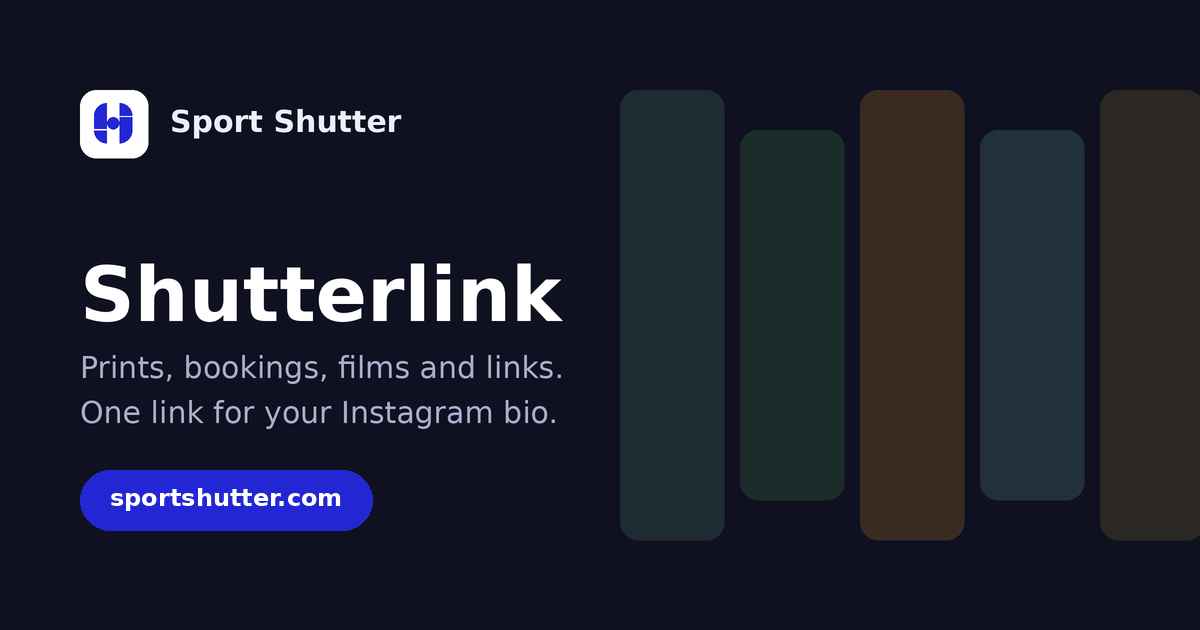
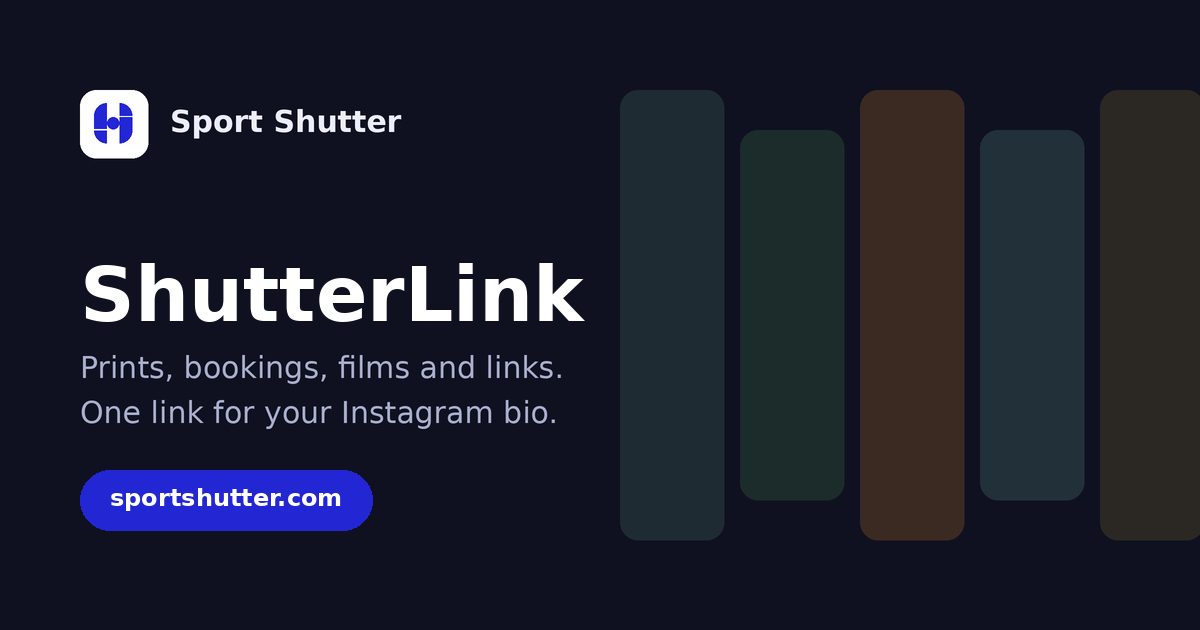
Name the feature ShutterLink in the top bar
Keeps the Sport Shutter mark and home link, and the Powered by Sport
Shutter footer. Settings bar, manifest, share card and README follow.

Claude-Session: https://claude.ai/code/session_01YJnzLmg5F2TP1LupT89ezc

Changed region(s): [[0.3392, 0.3921, 0.4933, 0.5127], [0.2775, 0.4524, 0.3083, 0.4825], [0.1233, 0.4524, 0.1542, 0.4825]]

diff --git a/settings.html b/settings.html
@@ -3,7 +3,7 @@
 <head>
 <meta charset="utf-8">
 <meta name="viewport" content="width=device-width, initial-scale=1, viewport-fit=cover">
-<title>Link page settings · Sport Shutter</title>
+<title>ShutterLink settings · Sport Shutter</title>
 <meta name="robots" content="noindex">
 <meta name="theme-color" content="#ffffff" media="(prefers-color-scheme: light)">
 <meta name="theme-color" content="#151726" media="(prefers-color-scheme: dark)">
@@ -246,8 +246,8 @@ select.in{appearance:none;-webkit-appearance:none;padding-right:32px;background-
 <body>
 <header class="top">
   <div class="bar">
-    <a class="brand" href="https://sportshutter.com/" aria-label="Sport Shutter home"><span class="mk" id="mk"></span><span>Sport Shutter</span></a>
-    <span class="crumb">Link page</span>
+    <a class="brand" href="https://sportshutter.com/" aria-label="ShutterLink by Sport Shutter, go to the Sport Shutter home page"><span class="mk" id="mk"></span><span>ShutterLink</span></a>
+    <span class="crumb">Settings</span>
     <span class="sp"></span>
     <span class="saved" id="saved" role="status"><i></i><span class="lbl" id="savedT">All changes saved</span></span>
     <button class="btn ghost icon" id="undo" aria-label="Undo" title="Undo (Ctrl+Z)" disabled></button>
@@ -708,7 +708,7 @@ async function uploadMany(files, list){
 async function importFile(file){
   if (!file) return;
   try { cfg = SL.fromJSON(await file.text()); changed({ immediate:true }); renderPane(current, true); toast('Settings loaded'); }
-  catch(_){ toast('That file isn’t a Shutterlink settings file.', true); }
+  catch(_){ toast('That file isn’t a ShutterLink settings file.', true); }
 }
 
 /* ---------- Preview ---------- */

diff --git a/index.html b/index.html
@@ -365,7 +365,7 @@ select.in{background-image:linear-gradient(45deg,transparent 50%,var(--text-dim)
 <div class="backdrop" id="backdrop" aria-hidden="true"></div>
 
 <header class="topbar" id="topbar">
-  <a class="logo" id="logo" href="https://sportshutter.com/"><span class="mark" id="mark"></span><span>Sport Shutter</span></a>
+  <a class="logo" id="logo" href="https://sportshutter.com/"><span class="mark" id="mark"></span><span id="product">ShutterLink</span></a>
   <button class="ib" id="shareBtn" aria-label="Share this page"></button>
   <button class="ib" id="cartBtn" aria-label="Cart, empty"><span class="badge-n num" id="cartN">0</span></button>
   <a class="ib gear" id="gear" href="settings.html" aria-label="Page settings"></a>
@@ -416,7 +416,8 @@ const tintCache = new Map();
 
 /* static chrome */
 $('mark').innerHTML = SL.BRAND.logo;
-$('logo').setAttribute('aria-label', SL.BRAND.name + ' home');
+$('product').textContent = SL.BRAND.product;
+$('logo').setAttribute('aria-label', `${SL.BRAND.product} by ${SL.BRAND.name}, go to the ${SL.BRAND.name} home page`);
 $('shareBtn').innerHTML = I.share;
 $('cartBtn').insertAdjacentHTML('afterbegin', I.bag);
 $('gear').innerHTML = I.gear;

diff --git a/assets/core.js b/assets/core.js
@@ -1,4 +1,4 @@
-/* Shutterlink core — shared by the link page and settings.
+/* ShutterLink core — shared by the link page and settings.
    Everything the page shows comes from one config object. In this prototype
    it is saved in the browser; as a Sport Shutter plugin, SL.load / SL.save
    become calls to the account API and nothing else needs to change. */
@@ -10,6 +10,7 @@ const KEY = 'shutterlink:v2';
 /* ---------- Brand (host site) ---------- */
 const BRAND = {
   name: 'Sport Shutter',
+  product: 'ShutterLink',          // this feature's name; the mark stays Sport Shutter's
   home: 'https://sportshutter.com/',
   blue: '#2326D3',
   logo: '<svg viewBox="0 0 86 90" aria-hidden="true"><g fill="currentColor"><path d="M28.5 0V58H0V28.5A28.5 28.5 0 0 1 28.5 0Z"/><path d="M0 62H28.5V90A28.5 28.5 0 0 1 0 62Z"/><path d="M57.5 0A28.5 28.5 0 0 1 86 28.5H57.5Z"/><path d="M57.5 32H86V61.5A28.5 28.5 0 0 1 57.5 90Z"/><circle cx="43" cy="45" r="13.5"/></g></svg>',

diff --git a/404.html b/404.html
@@ -3,7 +3,7 @@
 <head>
 <meta charset="utf-8">
 <meta name="viewport" content="width=device-width, initial-scale=1, viewport-fit=cover">
-<title>Page not found · Shutterlink</title>
+<title>Page not found · ShutterLink</title>
 <meta name="robots" content="noindex">
 <link rel="icon" href="/shutterLink/favicon.svg" type="image/svg+xml">
 <link rel="preconnect" href="https://fonts.googleapis.com">

diff --git a/README.md b/README.md
@@ -1,6 +1,8 @@
-# Shutterlink
+# ShutterLink
 
-A link-in-bio page for photographers, built to replace Linktree with something that lives on Sport Shutter and sells prints directly.
+A Sport Shutter feature: a link-in-bio page any photographer can use to showcase their work, sell prints and take bookings, instead of Linktree.
+
+Branding: the top bar shows the Sport Shutter mark with the ShutterLink name and links to sportshutter.com; the footer reads “Powered by Sport Shutter”.
 
 **Live prototype:** `index.html` is the public page; `settings.html` controls it (the gear in the page's top bar opens it).
 
